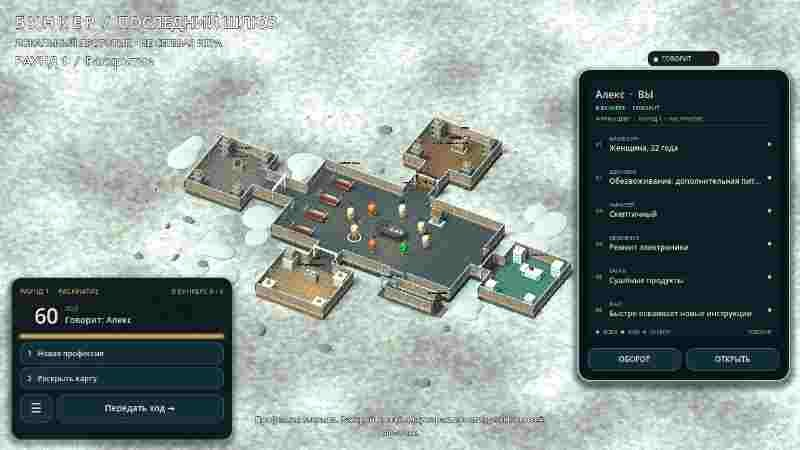
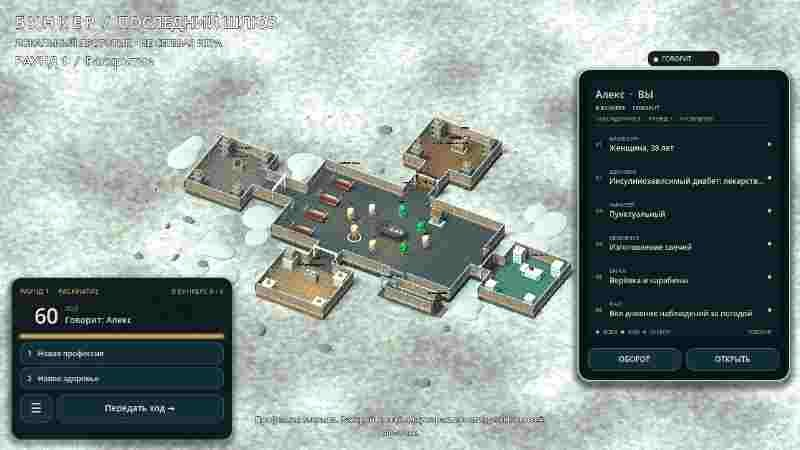
Bunker 0.27: refresh docs, README and site for the new HUD

diff --git a/website/index.html b/website/index.html
@@ -32,8 +32,8 @@
         <div class="eyebrow"><span class="status-dot"></span> ANDROID · ИГРА В РАЗРАБОТКЕ</div>
         <h1>Когда мир<br>закончится,<br><em>кто останется?</em></h1>
         <p class="hero-copy">Мест в убежище хватит не всем. Раскрой свою историю, убеди остальных и попробуй пережить катастрофу.</p>
-        <div class="hero-actions"><a class="button button-primary apk-link" href="https://github.com/AlfaGideon/Bunker/releases/download/android-26/Bunker-Posledniy-Shlyuz-26.apk"><span class="download-icon">↓</span> Скачать на Android <span class="button-arrow">↗</span></a><a class="button button-outline" href="#how"><span class="play-icon">▶</span> Узнать об игре</a></div>
-        <div class="hero-note"><span>Бесплатный прототип</span><i></i><span>APK · <span class="release-version">0.26</span></span><i></i><span>Русский язык</span></div>
+        <div class="hero-actions"><a class="button button-primary apk-link" href="https://github.com/AlfaGideon/Bunker/releases/download/android-27/Bunker-Posledniy-Shlyuz-27.apk"><span class="download-icon">↓</span> Скачать на Android <span class="button-arrow">↗</span></a><a class="button button-outline" href="#how"><span class="play-icon">▶</span> Узнать об игре</a></div>
+        <div class="hero-note"><span>Бесплатный прототип</span><i></i><span>APK · <span class="release-version">0.27</span></span><i></i><span>Русский язык</span></div>
       </div>
       <div class="hero-bottom wrap"><a href="#about" class="scroll-hint"><span class="scroll-line"></span> ЛИСТАЙТЕ ВНИЗ</a><span class="concept-note">Иллюстрация атмосферы игры</span><span class="hero-index">01 / 04</span></div>
     </section>
@@ -59,7 +59,7 @@
     <section id="gallery" class="section gallery wrap">
       <div class="gallery-header"><div><div class="label"><span>03</span> ВНУТРИ ИГРЫ</div><h2>Истории, которые<br><em>уже начинаются.</em></h2></div><div class="gallery-side"><p>Настоящие кадры из текущего прототипа. Игра развивается, и впереди ещё много работы.</p><div class="gallery-controls"><button type="button" id="gallery-prev" aria-label="Предыдущий кадр">←</button><button type="button" id="gallery-next" aria-label="Следующий кадр">→</button></div></div></div>
       <div class="gallery-track" id="gallery-track" tabindex="0" aria-label="Скриншоты игры">
-        <figure class="shot"><img src="assets/bunker.jpg" alt="Вид на бункер и досье участника" loading="lazy"><figcaption><span>01 / УБЕЖИЩЕ</span><span>Жизнь внутри бункера ↗</span></figcaption></figure>
+        <figure class="shot"><img src="assets/bunker.jpg" alt="Бункер и карта текущего говорящего справа" loading="lazy"><figcaption><span>01 / УБЕЖИЩЕ</span><span>Карта того, кто говорит ↗</span></figcaption></figure>
         <figure class="shot"><img src="assets/vote.jpg" alt="Окно голосования с участниками и таймером" loading="lazy"><figcaption><span>02 / ГОЛОСОВАНИЕ</span><span>Время сделать выбор ↗</span></figcaption></figure>
         <figure class="shot"><img src="assets/loading.jpg" alt="Персонаж бежит по лесу от костра" loading="lazy"><figcaption><span>03 / ЛАГЕРЬ</span><span>Путь к убежищу ↗</span></figcaption></figure>
         <figure class="shot"><img src="assets/medical.jpg" alt="Медицинский отсек убежища" loading="lazy"><figcaption><span>04 / ПОМЕЩЕНИЯ</span><span>Исследуй бункер ↗</span></figcaption></figure>
@@ -72,7 +72,7 @@
       <details><summary>Игра бесплатная?<span>+</span></summary><p>Текущий прототип доступен бесплатно. Он находится в разработке и может содержать ошибки.</p></details>
       <details><summary>Как обновить игру?<span>+</span></summary><p>Проверьте обновления в меню приложения или откройте страницу релизов. Скачайте новую версию и подтвердите установку; при одинаковой подписи профиль сохранится.</p></details>
     </div></section>
-    <section id="download" class="download-section"><div class="download-glow" aria-hidden="true"></div><div class="wrap download-inner"><div class="label"><span>06</span> ПОРА РЕШАТЬ</div><h2>Дверь ещё<br><em>открыта.</em></h2><p>Твоя история начинается у последнего шлюза. Попробуй прототип и посмотри, кто останется внутри.</p><div class="download-actions"><a class="button button-primary apk-link" href="https://github.com/AlfaGideon/Bunker/releases/download/android-26/Bunker-Posledniy-Shlyuz-26.apk"><span class="download-icon">↓</span> Скачать APK для Android <span class="button-arrow">↗</span></a><a class="text-link" href="https://github.com/AlfaGideon/Bunker/releases/latest" target="_blank" rel="noopener noreferrer">Все обновления <span>↗</span></a></div><div class="download-meta"><span>ANDROID</span><span>·</span><span>ВЕРСИЯ <span class="release-version">0.26</span></span><span>·</span><span>ПРОТОТИП</span></div><div class="download-ornament" aria-hidden="true">✳</div></div></section>
+    <section id="download" class="download-section"><div class="download-glow" aria-hidden="true"></div><div class="wrap download-inner"><div class="label"><span>06</span> ПОРА РЕШАТЬ</div><h2>Дверь ещё<br><em>открыта.</em></h2><p>Твоя история начинается у последнего шлюза. Попробуй прототип и посмотри, кто останется внутри.</p><div class="download-actions"><a class="button button-primary apk-link" href="https://github.com/AlfaGideon/Bunker/releases/download/android-27/Bunker-Posledniy-Shlyuz-27.apk"><span class="download-icon">↓</span> Скачать APK для Android <span class="button-arrow">↗</span></a><a class="text-link" href="https://github.com/AlfaGideon/Bunker/releases/latest" target="_blank" rel="noopener noreferrer">Все обновления <span>↗</span></a></div><div class="download-meta"><span>ANDROID</span><span>·</span><span>ВЕРСИЯ <span class="release-version">0.27</span></span><span>·</span><span>ПРОТОТИП</span></div><div class="download-ornament" aria-hidden="true">✳</div></div></section>
   </main>
   <footer class="footer"><div class="wrap footer-main"><a class="footer-brand" href="#top"><img src="assets/logo.png" alt="Бункер — Последний шлюз"></a><p>Игра о людях, выборе и том,<br>что ждёт за последней дверью.</p><div class="footer-links"><a href="#about">Об игре</a><a href="#how">Как играть</a><a href="#gallery">Галерея</a><a href="https://github.com/AlfaGideon/Bunker" target="_blank" rel="noopener noreferrer">GitHub ↗</a></div></div><div class="wrap footer-bottom"><span>© 2026 БУНКЕР — ПОСЛЕДНИЙ ШЛЮЗ</span><span>СОЗДАЁТСЯ С НУЛЯ · ДЛЯ ЛЮДЕЙ</span><a href="#top">НАВЕРХ ↑</a></div></footer>
   <script src="script.js" defer></script>

diff --git a/README.md b/README.md
@@ -11,17 +11,29 @@
 
 Направление прототипа: Godot 4, стилизованное 3D с камерой сверху под углом и карточным 2D-интерфейсом; целевая платформа — Android. Подключены 3D-модели Quaternius (CC0); источники и лицензии — в [THIRD_PARTY.md](THIRD_PARTY.md).
 
-Досье выжившего открывается вертикальной коллекционной картой: касание персонажа в комнате или его имени в боковом списке переворачивает её, показывает сгенерированную портретную иллюстрацию обезличенного манекена в снаряжении профессии и все семь характеристик одной сеткой на лице. Закрытые параметры остаются замаскированными до раскрытия. [Подробности](docs/ITERATION_26.md).
+В партии справа лежит вертикальная игральная карта текущего говорящего: она подсвечивается, показывает сгенерированную портретную иллюстрацию обезличенного манекена в снаряжении профессии и по касанию переворачивается к шести параметрам, а «Открыть» разворачивает полное досье с замками. Касание любого выжившего просто меняет карту справа — списка участников и боковой панели больше нет. [Подробности](docs/ITERATION_27.md).
 
-## Текущий APK — 0.26: карточки персонажей и библиотека профессий
+## Текущий APK — 0.27: карта говорящего вместо бокового меню
 
-[**Скачать APK 0.26**](https://github.com/AlfaGideon/Bunker/releases/download/android-26/Bunker-Posledniy-Shlyuz-26.apk) · [Release](https://github.com/AlfaGideon/Bunker/releases/tag/android-26) · [Подробности](docs/ITERATION_26.md)
+[**Скачать APK 0.27**](https://github.com/AlfaGideon/Bunker/releases/download/android-27/Bunker-Posledniy-Shlyuz-27.apk) · [Release](https://github.com/AlfaGideon/Bunker/releases/tag/android-27) · [Подробности](docs/ITERATION_27.md)
+
+Боковое меню в партии убрано полностью. Справа — одна карта персонажа: по умолчанию это карта того, кто говорит сейчас, она светится и подписана «ГОВОРИТ». Касание любого выжившего просто меняет карту, касание карты переворачивает её к шести параметрам, «Открыть» разворачивает полное досье. В левом нижнем углу — компактная панель хода с раундом, таймером, двумя способностями, кнопкой действия и единственной кнопкой «☰» с меню партии.
+
+![Карта на столе и панель хода](docs/previews/hud.jpg)
 
 После всех речей — **60 секунд обсуждения**, затем в центре появляется голосование на **20 секунд**. Пропуск или истечение времени означает **голос за себя**. При ничьей проводится повторное голосование. Остальные участники пока локальные тестовые персонажи; сетевой игры нет. Проверены таймеры, собственное исключение, повторное голосование и поле на десять участников. Физическая проверка на BL9000 ещё нужна.
 
 ![Поле голосования](docs/previews/vote.jpg)
 
-## Предыдущий APK — 0.19: выбор фигурки персонажа
+## Предыдущий APK — 0.26: карточки персонажей и библиотека профессий
+
+[**Скачать APK 0.26**](https://github.com/AlfaGideon/Bunker/releases/download/android-26/Bunker-Posledniy-Shlyuz-26.apk) · [Release](https://github.com/AlfaGideon/Bunker/releases/tag/android-26) · [Подробности](docs/ITERATION_26.md)
+
+Вертикальная карточка персонажа с переворотом, 67 профессий с индивидуальными портретами и библиотека из двух разделов: каталог профессий с фильтром групп и редактор параметров.
+
+![Лицевая сторона карты](docs/previews/character-card-front.jpg)
+
+## APK — 0.19: выбор фигурки персонажа
 
 [**Скачать APK 0.19**](https://github.com/AlfaGideon/Bunker/releases/download/android-19/Bunker-Posledniy-Shlyuz-19.apk) · [Release](https://github.com/AlfaGideon/Bunker/releases/tag/android-19) · [Подробнее](docs/ITERATION_19.md)
 

diff --git a/docs/BUILD_STATUS.md b/docs/BUILD_STATUS.md
@@ -1,6 +1,8 @@
 # Проверки и APK
 
-**Текущая версия 0.26:** [APK](https://github.com/AlfaGideon/Bunker/releases/download/android-26/Bunker-Posledniy-Shlyuz-26.apk), [Release](https://github.com/AlfaGideon/Bunker/releases/tag/android-26), [Godot CI](https://github.com/AlfaGideon/Bunker/actions/runs/41112242191), [Android build](https://github.com/AlfaGideon/Bunker/actions/runs/41112242225), [подписанная сборка](https://github.com/AlfaGideon/Bunker/actions/runs/41112242490), [подробности](ITERATION_26.md). Version code 26, package `org.bunker.prototype`, APK 104 014 185 байт, подпись совпадает с 0.25. В сборке 67 профессий с индивидуальными портретами, вертикальная карточка персонажа с переворотом и библиотека из двух разделов: каталог профессий с фильтром групп и редактор параметров. Проверены все Godot-тесты, включая новый каталог, и рендеры лицевой, оборотной и своей карты, библиотеки и каталога. Физическая установка на BL9000 ещё нужна.
+**Текущая версия 0.27:** [APK](https://github.com/AlfaGideon/Bunker/releases/download/android-27/Bunker-Posledniy-Shlyuz-27.apk), [Release](https://github.com/AlfaGideon/Bunker/releases/tag/android-27), [Godot CI](https://github.com/AlfaGideon/Bunker/actions/runs/41121610367), [Android build](https://github.com/AlfaGideon/Bunker/actions/runs/41121610316), [подписанная сборка](https://github.com/AlfaGideon/Bunker/actions/runs/41121610378), [подробности](ITERATION_27.md). Version code 27, package `org.bunker.prototype`, APK 104 039 091 байт, подпись совпадает с 0.26. Боковое меню в партии убрано полностью: справа лежит одна игральная карта персонажа, по умолчанию — карта говорящего с подсветкой, касание другого выжившего просто меняет карту, переворот показывает шесть параметров, «Открыть» разворачивает полное досье. В левом нижнем углу — компактная панель хода с раундом, таймером, способностями, кнопкой действия и единственной кнопкой «☰». Проверены все Godot-тесты, включая новый `tools/test_table_card.gd`, и рендеры карты на столе и её параметров. Физическая установка на BL9000 ещё нужна.
+
+**Историческая версия 0.26:** [APK](https://github.com/AlfaGideon/Bunker/releases/download/android-26/Bunker-Posledniy-Shlyuz-26.apk), [Release](https://github.com/AlfaGideon/Bunker/releases/tag/android-26), [Godot CI](https://github.com/AlfaGideon/Bunker/actions/runs/41112242191), [Android build](https://github.com/AlfaGideon/Bunker/actions/runs/41112242225), [подписанная сборка](https://github.com/AlfaGideon/Bunker/actions/runs/41112242490), [подробности](ITERATION_26.md). Version code 26, package `org.bunker.prototype`, APK 104 014 185 байт, подпись совпадает с 0.25. В сборке 67 профессий с индивидуальными портретами, вертикальная карточка персонажа с переворотом и библиотека из двух разделов: каталог профессий с фильтром групп и редактор параметров. Проверены все Godot-тесты, включая новый каталог, и рендеры лицевой, оборотной и своей карты, библиотеки и каталога. Физическая установка на BL9000 ещё нужна.
 
 **Историческая версия 0.20:** [APK](https://github.com/AlfaGideon/Bunker/releases/download/android-20/Bunker-Posledniy-Shlyuz-20.apk), [Release](https://github.com/AlfaGideon/Bunker/releases/tag/android-20), [Godot CI](https://github.com/AlfaGideon/Bunker/actions/runs/40753093607), [подписанная сборка](https://github.com/AlfaGideon/Bunker/actions/runs/40753093601), [подробности](ITERATION_20.md). Проверены обсуждение 60 секунд, голосование 20 секунд, голос за себя при пропуске, повторное голосование, десять участников, рендер и полное прохождение партии. Сертификат совпадает с 0.19; физическая проверка BL9000 ещё нужна.
 

diff --git a/docs/RUNNING.md b/docs/RUNNING.md
@@ -1,4 +1,4 @@
-# Запуск локального прототипа — 0.26
+# Запуск локального прототипа — 0.27
 
 ## Исходники
 
@@ -6,6 +6,8 @@
 2. Импортировать корневой `project.godot` и нажать F5.
 3. Откроется отдельное приветственное меню с анимированным персонажем у костра — партия ещё не создана. В нём настроить имя, внешность/оттенок одежды; через «Параметры партии» выбрать 6/8/10 участников и катастрофу. Профиль/настройки сохраняются; сама партия — нет.
 4. Нажать «Начать партию»: настройки сохранятся, загрузится бункер и откроется аварийная сводка. Профессии сразу публичны; при раскрытии биологии внешность определяется её полом и возрастом.
+
+Партия 0.27: боковой панели больше нет. Справа лежит карта текущего говорящего — она подсвечивается и подписана «ГОВОРИТ»; касание любого выжившего в комнате или его карты просто меняет карту справа, повторное касание переворачивает её к параметрам, а «Открыть» разворачивает полное досье с замками. В левом нижнем углу — панель хода с раундом, таймером речи, двумя способностями и кнопкой действия; там же единственная кнопка «☰» с меню партии.
 
 Подготовка 0.18: меню плавно уезжает, персонаж встаёт у костра и бежит вправо; камера следует за ним, а костёр и лес уходят влево. Справа появляется круглая дверь убежища. Можно отменить вход, а когда ресурсы готовы — пропустить ролик. Уменьшение движения отключает путь.
 

diff --git a/docs/ITERATION_27.md b/docs/ITERATION_27.md
@@ -38,3 +38,9 @@
 ## Проверки
 
 `tools/test_table_card.gd` проверяет: карта на столе вместо меню, вертикальную пропорцию, что она помещается в экран и стоит справа, что старый список участников исчез, что карта следует за говорящим и светится, что касание другого выжившего только переключает карту, что переворот показывает шесть параметров без прокрутки и чужие значения остаются скрытыми, что «Открыть» разворачивает полное досье, что панель хода и кнопка «☰» стоят в левом нижнем углу, что меню по ней открывается, а сообщение партии не уезжает за экран. Прежние тесты карточки, меню и HUD обновлены под новую раскладку.
+
+## Сборка
+
+`version/code` 27, версия 0.27.0, package `org.bunker.prototype`; подпись та же, что у 0.26, поэтому APK ставится поверх без удаления профиля.
+
+[Скачать APK 0.27](https://github.com/AlfaGideon/Bunker/releases/download/android-27/Bunker-Posledniy-Shlyuz-27.apk) · [Release](https://github.com/AlfaGideon/Bunker/releases/tag/android-27) · APK 104 039 091 байт.
